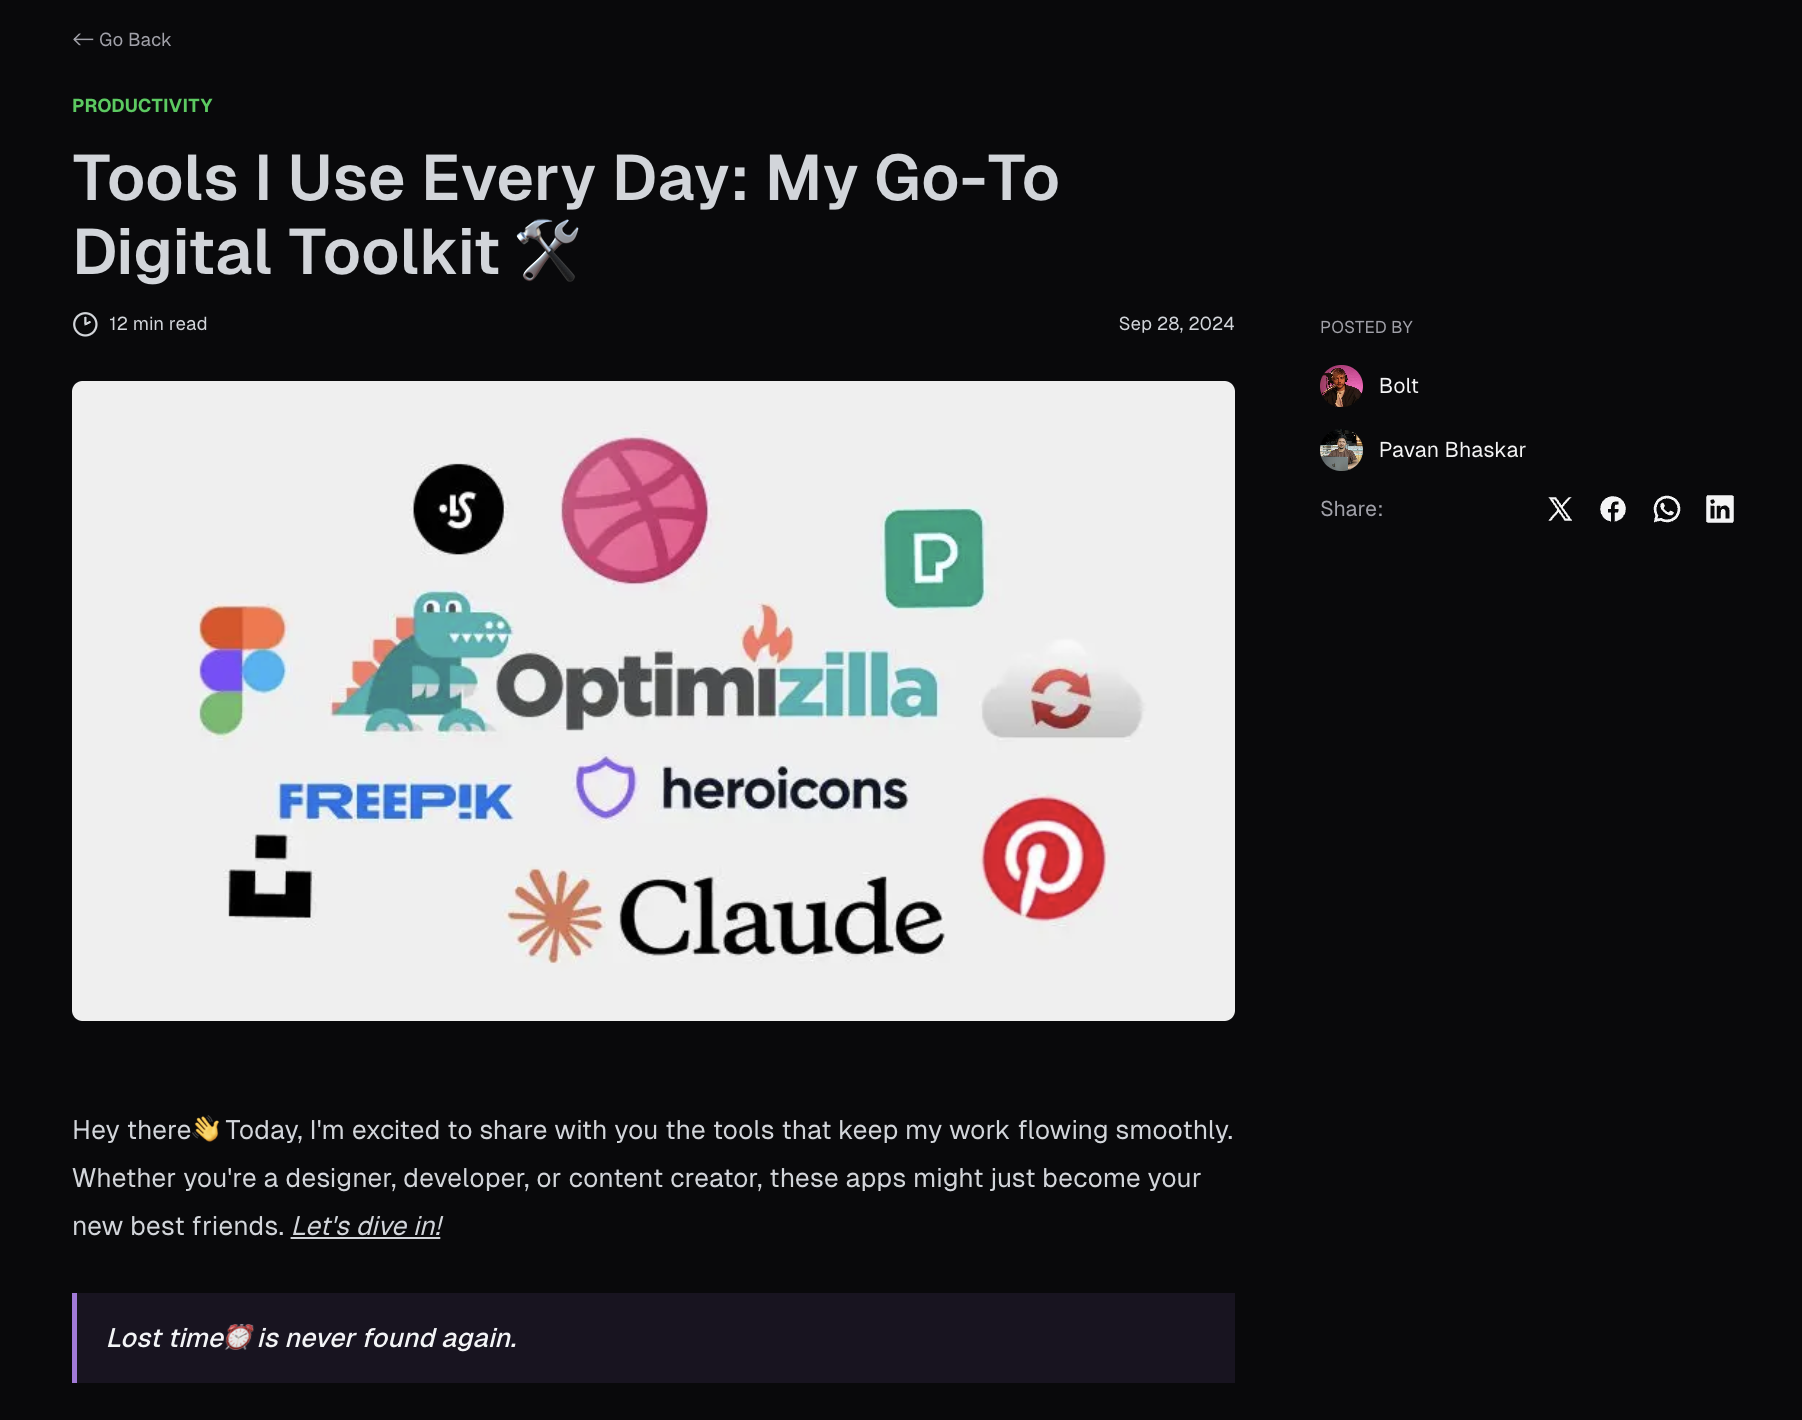
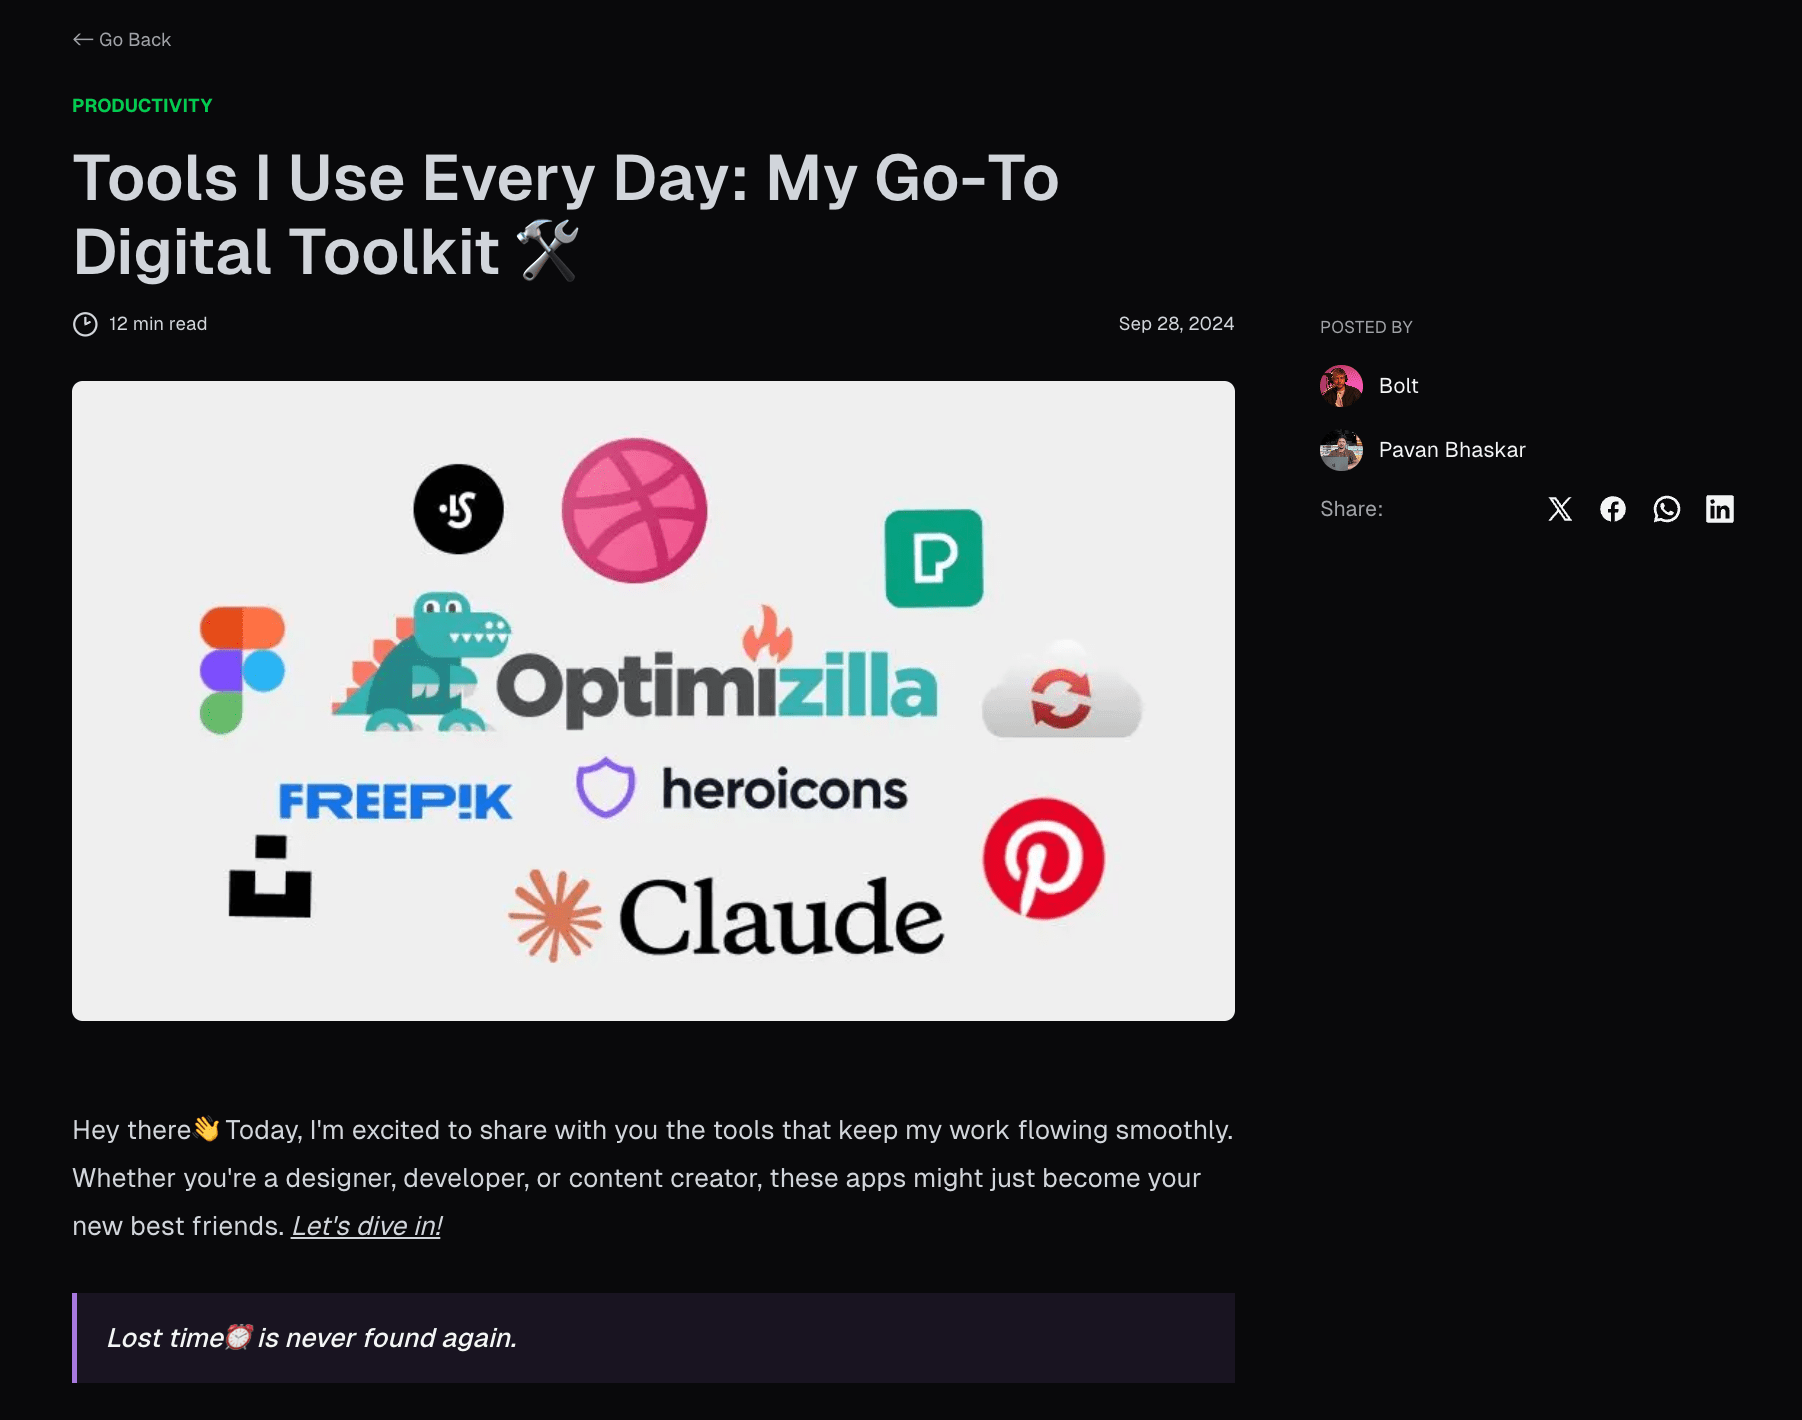
feat: update core package to 3.3 & compressed the block images & add w-full to article

diff --git a/src/payload/blocks/Details/components/BlogDetails.tsx b/src/payload/blocks/Details/components/BlogDetails.tsx
@@ -155,7 +155,7 @@ const BlogDetails: React.FC<BlogDetailsProps> = ({ blog }) => {
   return (
     <>
       <section className='grid w-full gap-16 lg:grid-cols-[auto_1fr]'>
-        <article className='prose-headings:font prose prose-purple overflow-x-hidden dark:prose-invert lg:prose-xl prose-headings:font-semibold prose-a:text-primary prose-a:no-underline prose-a:after:content-["↗"] hover:prose-a:text-primary/90 hover:prose-a:underline prose-blockquote:border-primary prose-blockquote:bg-primary/10 prose-blockquote:py-4 prose-img:rounded prose-video:w-full dark:prose-pre:bg-primary/10 [&_iframe]:aspect-video [&_iframe]:w-full [&_iframe]:rounded'>
+        <article className='prose-headings:font prose prose-purple w-full overflow-x-hidden dark:prose-invert lg:prose-xl prose-headings:font-semibold prose-a:text-primary prose-a:no-underline prose-a:after:content-["↗"] hover:prose-a:text-primary/90 hover:prose-a:underline prose-blockquote:border-primary prose-blockquote:bg-primary/10 prose-blockquote:py-4 prose-img:w-full prose-img:rounded prose-video:w-full dark:prose-pre:bg-primary/10 [&_iframe]:aspect-video [&_iframe]:w-full [&_iframe]:rounded'>
           <span
             className='not-prose cursor-pointer text-sm text-secondary'
             onClick={() => router.back()}>
